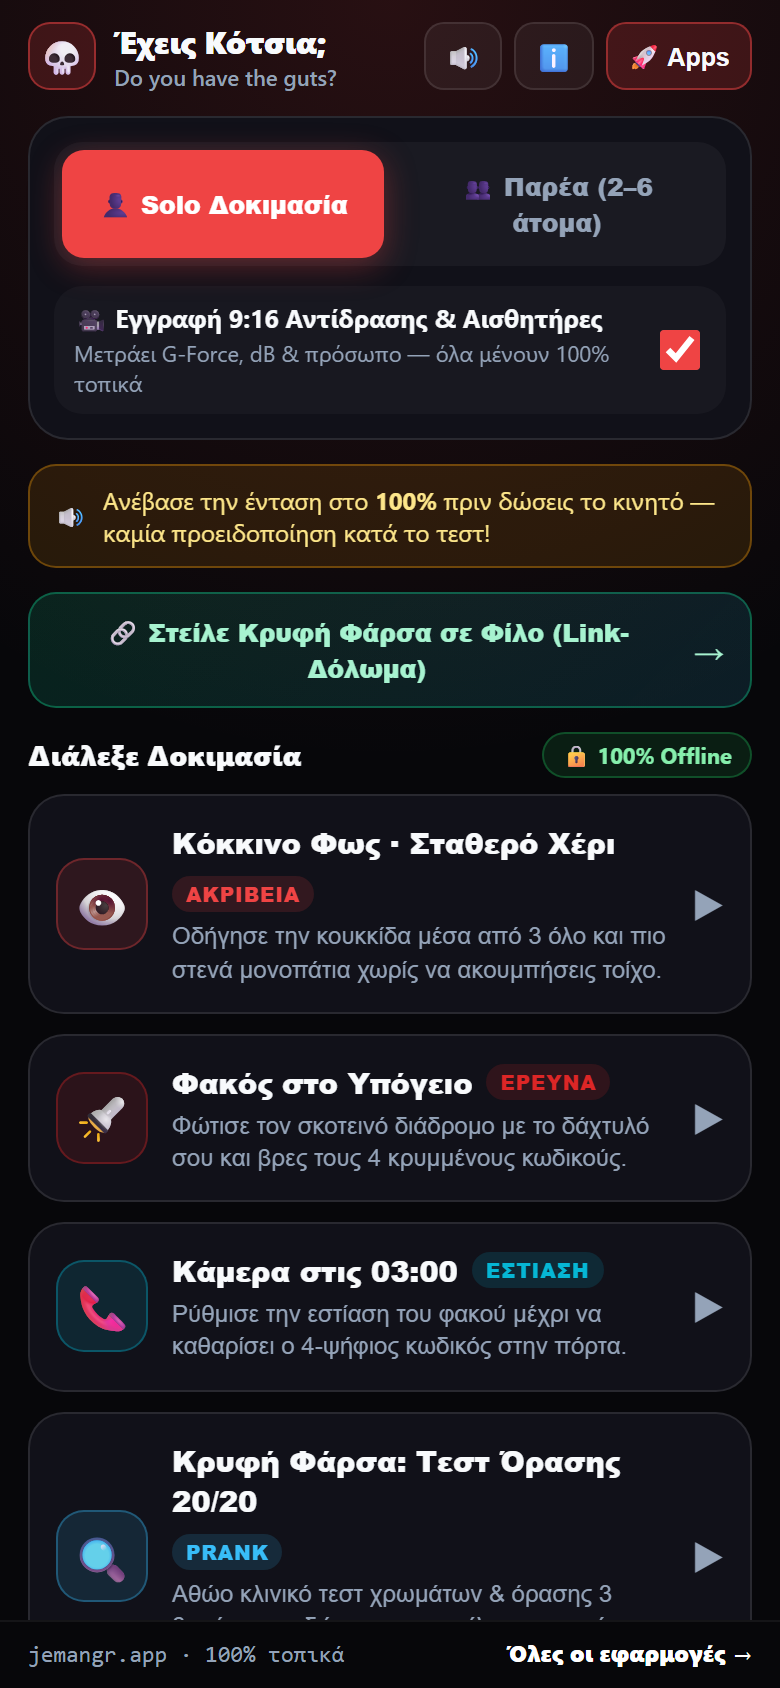
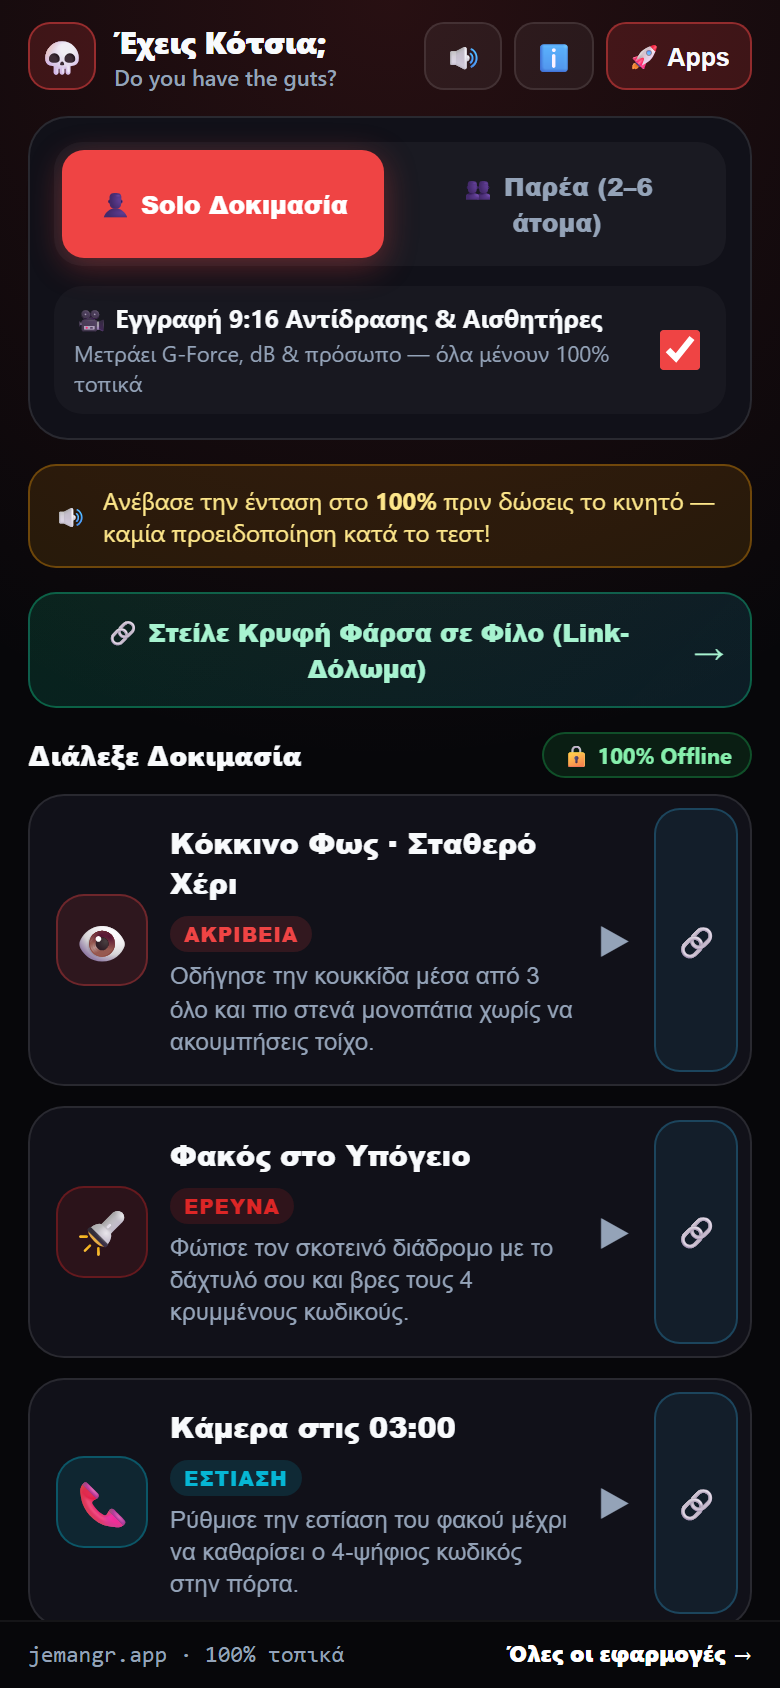
release(v1.3.1): 6 standalone zero-spoiler scenario links and per-card sharing

diff --git a/README.md b/README.md
@@ -56,7 +56,7 @@
   2. **Ουρλιαχτό (dB):** Μετράει το ambient baseline και το peak κλάμα/φωνή στο σοκ.
   3. **Αντίδραση Προσώπου (Camera):** Ανιχνεύει απότομη κίνηση & κρατάει **Peak Reaction Snapshot**.
   4. **Τρέμουλο Αναμονής:** Μετράει πόσο τρέμεις *πριν* σκάσει η σκηνή.
-* **🎭 6 Ενεργές Δοκιμασίες Συγκέντρωσης & 3 Κρυφά Links Φάρσας (`?mode=eye|diff|hearing`):** `Κόκκινο Φως (3-Level Maze)`, `Φακός στο Υπόγειο`, `Κάμερα 03:00` + **3 αθώες κρυφές φάρσες** (*Τεστ Όρασης 20/20*, *Βρες τις 3 Διαφορές*, *Τεστ Ακοής Hz*) με μηδέν HUD/ηχητικά spoilers πριν το σοκ!
+* **🎭 6 Ενεργές Δοκιμασίες Συγκέντρωσης & 6 Αυτόνομα Zero-Spoiler Links (`eye.html`, `diff.html`, `hearing.html`, `maze.html`, `basement.html`, `camera.html`):** `Κόκκινο Φως (3-Level Maze)`, `Φακός στο Υπόγειο`, `Κάμερα 03:00` + **3 αθώες φάρσες** (*Τεστ Όρασης 20/20*, *Βρες τις 3 Διαφορές*, *Τεστ Ακοής Hz*) — κάθε κάρτα έχει δικό της `🔗` κουμπί κοινοποίησης που ανοίγει αποκλειστικά τη συγκεκριμένη δοκιμασία με αθώο link preview & μηδέν horror spoilers!
 * **💀 4 Φωτορεαλιστικά Jumpscares & 4 Εναλλασσόμενες Πραγματικές Κραυγές:** 4 αληθοφανείς εικόνες τρόμου με VHS slice glitch, zoom lunge & strobe flash, συνδυασμένες με 4 δυνατές, απότομες κραυγές (`0 ms` επίθεση) που αλλάζουν σε κάθε γύρο.
 * **🎴 Προεπισκόπηση Κάρτας 9:16, Save & Share (+ Split-Screen Video):** Άμεση προεπισκόπηση & ξεχωριστά κουμπιά **💾 Αποθήκευση** (Gallery / PNG) & **📤 Κοινοποίηση** για TikTok / Reels / Stories.
 * **👥 Solo & Παρέα (2–6 άτομα):** Στέφει τον **👑 Πιο Ψύχραιμο** και την **🐔 Κότα της Παρέας**.

diff --git a/CHANGELOG.md b/CHANGELOG.md
@@ -1,5 +1,10 @@
 # Changelog — Έχεις Κότσια; (`Do You Have the Guts?`)
 
+## v1.3.1 (2026-11-20)
+* 🌐 **6 Αυτόνομα Zero-Spoiler Links (`eye.html`, `diff.html`, `hearing.html`, `maze.html`, `basement.html`, `camera.html`):** Κάθε δοκιμασία έχει πλέον δική της ξεχωριστή σελίδα και καθαρό social preview (`og:title` / `og:description`) χωρίς καμία αναφορά σε *«Έχεις Κότσια;»* ή τρόμο — ώστε ο παραλήπτης να βλέπει ΜΟΝΟ τη συγκεκριμένη δοκιμασία που επέλεξες!
+* 🔗 **Κουμπί «Στείλε Link μόνο για αυτό» (`🔗`) σε κάθε κάρτα:** Στέλνει κατευθείαν το επιλεγμένο τεστ με 1 πάτημα από την αρχική οθόνη (και μέσω native Android Share Sheet στο APK).
+* 🔒 **Κλείδωμα πριν το Jumpscare:** Αν ο φίλος πατήσει `✕` πριν σκάσει η σκηνή, μένει στην αθώα οθόνη εισόδου και δεν βλέπει την αρχική οθόνη τρόμου.
+
 ## v1.3.0 (2026-11-20)
 * 🔗 **Κρυφά Links Φάρσας (`?mode=eye`, `?mode=diff`, `?mode=hearing`):** Στέλνεις link σε φίλο που ανοίγει **κατευθείαν** το αθώο τεστ (χωρίς νεκροκεφαλές ή προειδοποιήσεις) — και μετά το σοκ βλέπει την κάρτα του **Pass & Play Terror** + link για να το στείλει παρακάτω!
 * 🖼 **Νέα Δοκιμασία «Βρες τις 3 Διαφορές»:** Βρίσκει 2 εύκολες διαφορές ανάμεσα στις δύο εικόνες — η 3η δεν υπάρχει, οπότε κολλάει στην οθόνη μέχρι να σκάσει!
